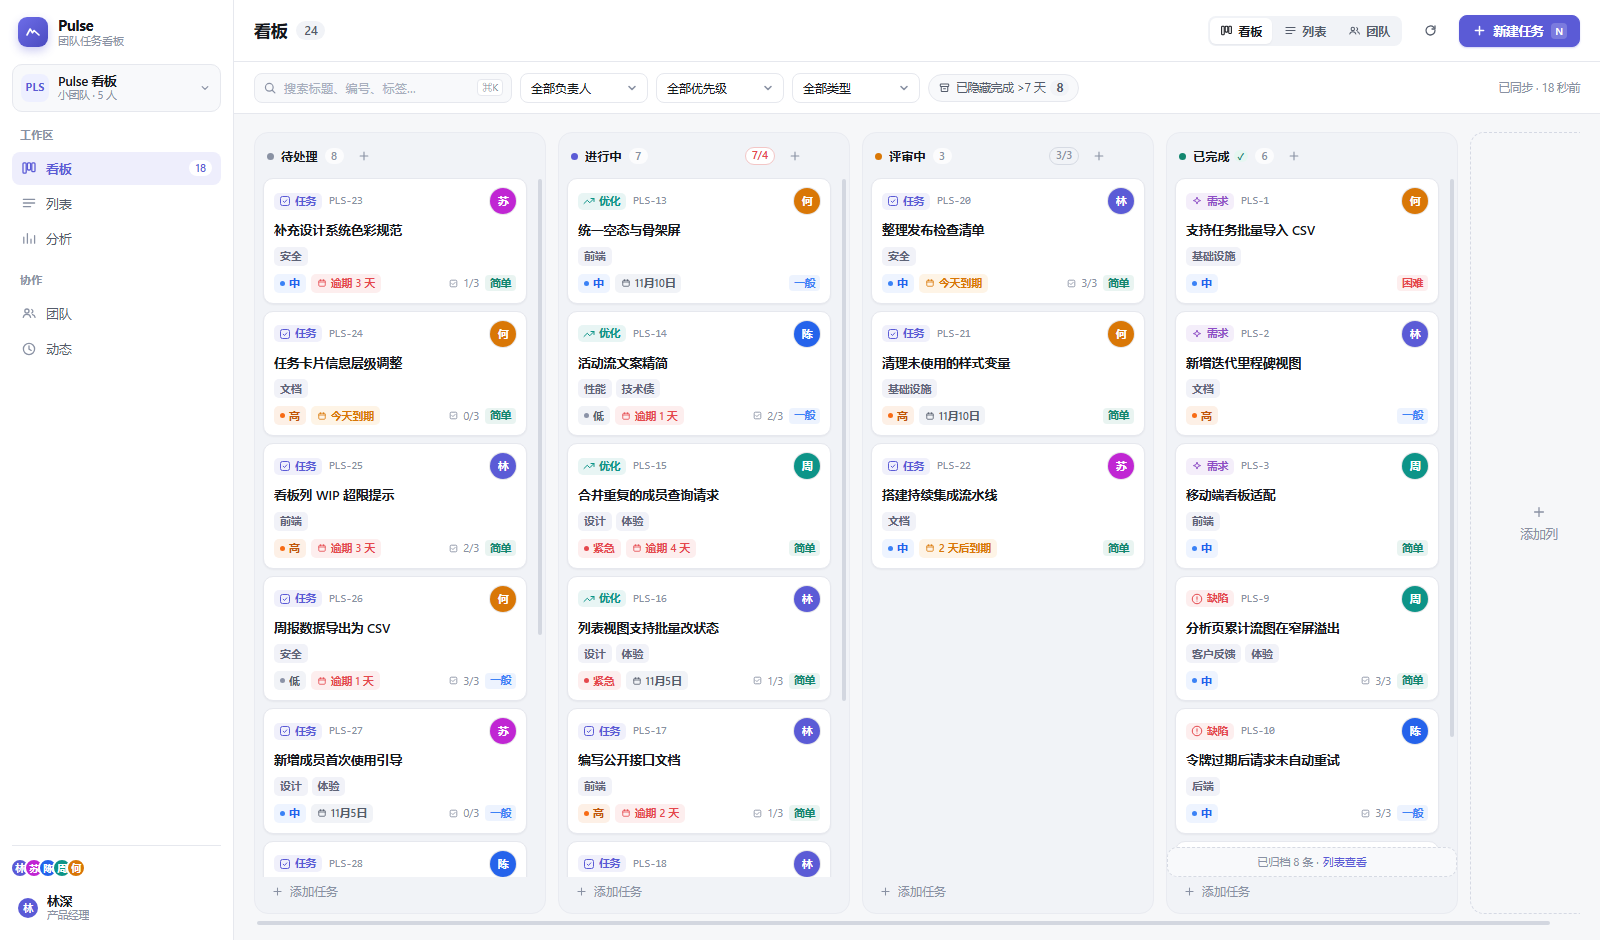
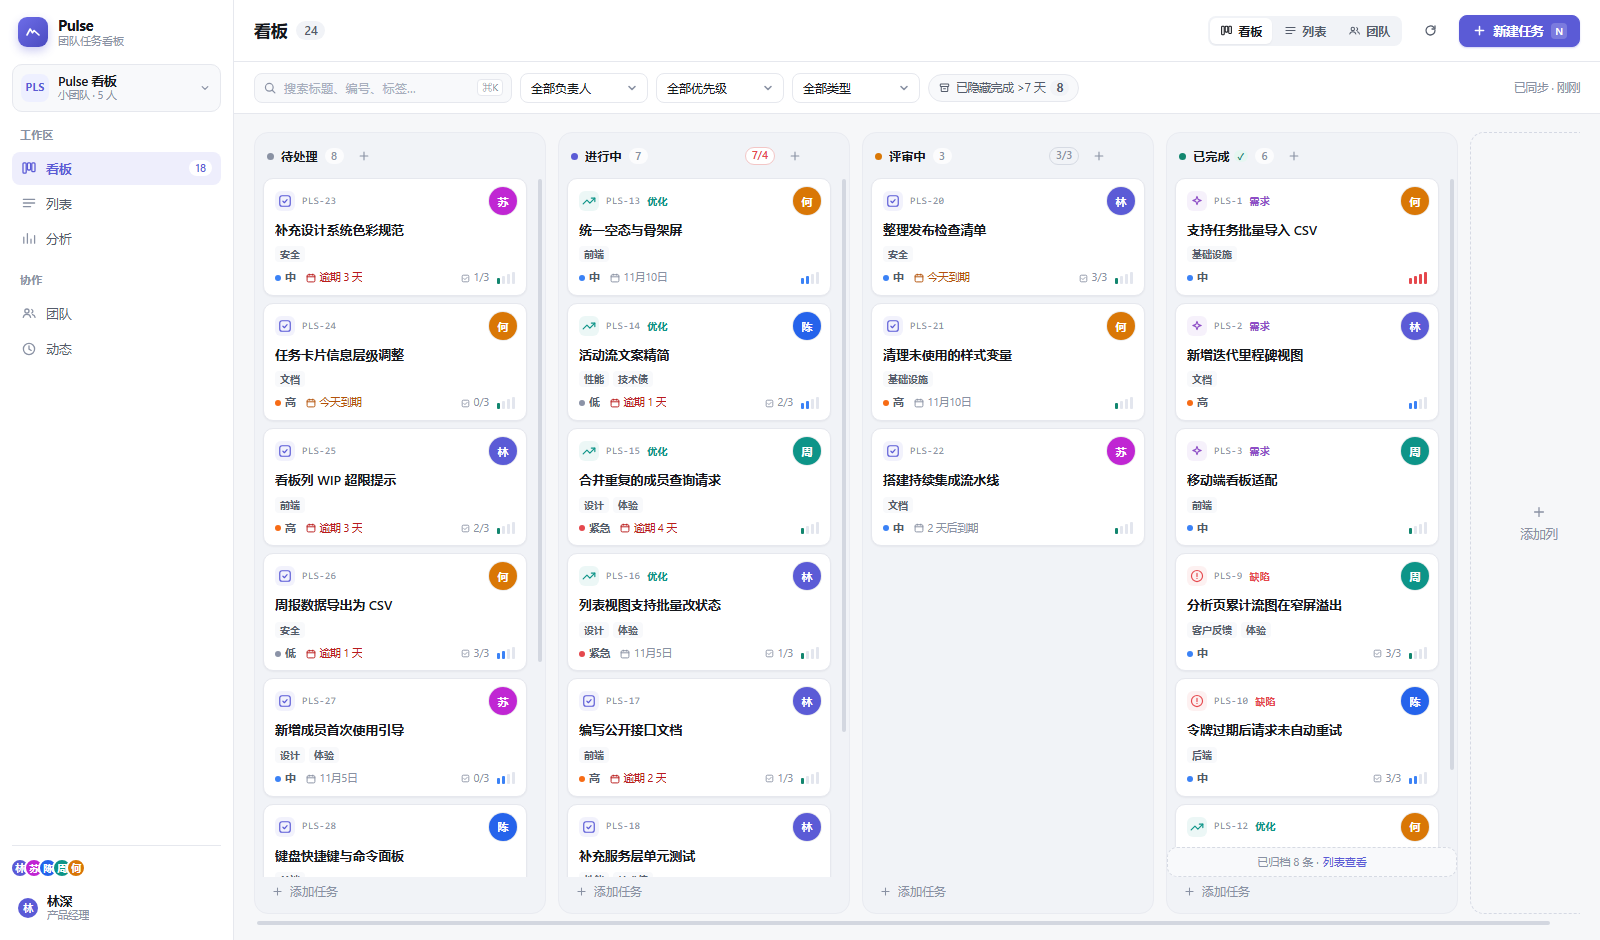
feat: 看板卡片信息层级重构（类型图标 + 大处理人 + 精简 meta） (v1.11.0)

diff --git a/public/js/views/board.js b/public/js/views/board.js
@@ -29,60 +29,89 @@ let draggedId = null;
 let menuEl = null;
 let menuCleanup = null;
 
+/** 难度刻度：4 格，比「较难 / 困难」文字更省空间，完整含义在 title 与抽屉里 */
+function difficultyMeter(task) {
+  if (!task.difficulty) return '';
+  const levels = ['easy', 'normal', 'hard', 'xhard'];
+  const level = levels.indexOf(task.difficulty) + 1;
+  const meta = difficultyMeta(task.difficulty);
+  const bars = [1, 2, 3, 4]
+    .map((i) => `<i class="${i <= level ? 'on' : ''}"></i>`)
+    .join('');
+  return `<span class="diff-meter" style="--diff-color:${meta.color}" title="难易程度：${escapeHtml(
+    meta.name,
+  )}" aria-label="难易程度：${escapeHtml(meta.name)}">${bars}</span>`;
+}
+
 function cardHtml(task) {
   const priority = priorityMeta(task.priority);
   const type = typeMeta(task.type);
   const member = memberById(task.assigneeId);
   const due = dueInfo(task.dueDate, isDoneStatus(task.status));
   const doneSubtasks = task.subtasks.filter((item) => item.done).length;
+  // 标签最多两个，其余折成 +N，避免卡片被标签撑爆
+  const visibleLabels = task.labels.slice(0, 2);
+  const restLabels = task.labels.length - visibleLabels.length;
+  const assigneeName = member ? `${member.name} · ${member.role}` : '未指派';
 
-  return `<article class="card" draggable="true" data-task-id="${task.id}">
-    <div class="card-top">
-      <span class="card-type" style="color:${type.color};background:${type.color}18" title="任务类型：${escapeHtml(
+  return `<article class="card" draggable="true" data-task-id="${task.id}" data-priority="${task.priority}">
+    <header class="card-head">
+      <span class="card-type-icon" style="color:${type.color};background:${type.color}14" title="任务类型：${escapeHtml(
         type.name,
-      )}">${icon(typeIconName(type.id), 12)}<span>${escapeHtml(type.name)}</span></span>
+      )}">${icon(typeIconName(type.id), 14)}</span>
       <span class="card-key">${escapeHtml(task.key)}</span>
+      ${
+        type.id === 'task'
+          ? ''
+          : `<span class="card-type-name" style="color:${type.color}">${escapeHtml(type.name)}</span>`
+      }
       <button class="card-avatar" data-assignee-btn="${task.id}" title="切换执行人：${escapeHtml(
-        member ? `${member.name} · ${member.role}` : '未指派',
-      )}" aria-label="切换执行人">${avatarHtml(member)}</button>
-    </div>
+        assigneeName,
+      )}" aria-label="切换执行人：${escapeHtml(assigneeName)}">
+        ${
+          member
+            ? avatarHtml(member, 'avatar-card')
+            : `<span class="avatar-ghost" aria-hidden="true">${icon('plus', 12)}</span>`
+        }
+      </button>
+    </header>
+
     <div class="card-title">${escapeHtml(task.title)}</div>
+
     ${
-      task.labels.length
-        ? `<div class="card-labels">${task.labels
+      visibleLabels.length
+        ? `<div class="card-labels">${visibleLabels
             .map((label) => `<span class="chip chip-label">${escapeHtml(label)}</span>`)
-            .join('')}</div>`
+            .join('')}${
+            restLabels > 0 ? `<span class="chip chip-label chip-more">+${restLabels}</span>` : ''
+          }</div>`
         : ''
     }
-    <div class="card-meta">
-      <span class="chip chip-priority-${priority.id}"><i class="chip-dot" style="background:${
-        priority.color
-      }"></i>${escapeHtml(priority.name)}</span>
+
+    <footer class="card-foot">
+      <span class="prio prio-${priority.id}" title="优先级：${escapeHtml(priority.name)}">
+        <i style="background:${priority.color}"></i>${escapeHtml(priority.name)}
+      </span>
       ${
         due
-          ? `<span class="${due.cls}">${icon('calendar', 10)}${escapeHtml(due.text)}</span>`
+          ? `<span class="due ${due.overdue ? 'due-over' : due.soon ? 'due-soon' : ''}" title="截止日期">${icon(
+              'calendar',
+              12,
+            )}${escapeHtml(due.text)}</span>`
           : ''
       }
-      <span class="meta-right">
+      <span class="foot-right">
         ${
           task.subtasks.length
-            ? `<span class="sub-progress" title="子项完成度">${icon('subtask', 11)}${doneSubtasks}/${
-                task.subtasks.length
-              }</span>`
+            ? `<span class="sub-progress" title="子项完成度 ${doneSubtasks}/${task.subtasks.length}">${icon(
+                'subtask',
+                12,
+              )}${doneSubtasks}/${task.subtasks.length}</span>`
             : ''
         }
-        ${
-          task.difficulty
-            ? (() => {
-                const d = difficultyMeta(task.difficulty);
-                return `<span class="diff-badge" style="color:${d.color};background:${d.color}18" title="难易程度：${escapeHtml(
-                  d.name,
-                )}">${escapeHtml(d.name)}</span>`;
-              })()
-            : ''
-        }
+        ${difficultyMeter(task)}
       </span>
-    </div>
+    </footer>
   </article>`;
 }
 

diff --git a/public/css/style.css b/public/css/style.css
@@ -3510,3 +3510,187 @@ select {
 .an-kpi-info:hover::before,
 .an-kpi-info:focus-visible::before { opacity: 1; }
 .an-kpi-note { margin-left: 5px; font-size: 10px; color: var(--text-3); }
+
+/* ============================================================
+   任务卡片（v1.11 信息分层：类型图标 / 大处理人 / 精简 meta）
+   ============================================================ */
+.card {
+  padding: 10px 11px 9px;
+  border-radius: 10px;
+}
+
+.card-head {
+  display: flex;
+  align-items: center;
+  gap: 7px;
+  margin-bottom: 7px;
+}
+
+/* 类型：14px 彩色图标 + 同色淡底块，替代原来的小字胶囊 */
+.card-type-icon {
+  width: 20px;
+  height: 20px;
+  border-radius: 6px;
+  display: grid;
+  place-items: center;
+  flex: 0 0 auto;
+}
+
+.card-type-icon svg {
+  width: 14px;
+  height: 14px;
+}
+
+.card-key {
+  font-family: var(--mono);
+  font-size: 10px;
+  letter-spacing: 0.02em;
+  color: var(--text-3);
+}
+
+/* 处理人：28px，未指派为虚线圈 */
+.card-avatar {
+  margin-left: auto;
+  padding: 0;
+  border: 0;
+  background: none;
+  border-radius: 50%;
+  display: inline-flex;
+  cursor: pointer;
+}
+
+.card-avatar .avatar,
+.avatar.avatar-card {
+  width: 28px;
+  height: 28px;
+  font-size: 11px;
+  box-shadow: 0 0 0 1px rgba(17, 24, 39, 0.08);
+}
+
+.card-avatar:hover .avatar {
+  box-shadow: 0 0 0 3px var(--accent-soft);
+}
+
+.card-title {
+  font-size: 12.9px;
+  font-weight: 560;
+  line-height: 1.5;
+  -webkit-line-clamp: 2;
+}
+
+.card-labels {
+  margin-top: 7px;
+  gap: 4px;
+}
+
+.chip-label {
+  height: 16px;
+  padding: 0 5px;
+  border-radius: 4px;
+  font-size: 10px;
+  line-height: 16px;
+  background: var(--surface-2);
+  color: var(--text-2);
+}
+
+.chip-more {
+  color: var(--text-3);
+}
+
+.card-foot {
+  display: flex;
+  align-items: center;
+  gap: 9px;
+  margin-top: 8px;
+  font-size: 10.5px;
+  color: var(--text-3);
+  min-width: 0;
+}
+
+.card-foot .prio {
+  display: inline-flex;
+  align-items: center;
+  gap: 4px;
+  font-weight: 560;
+  color: var(--text-2);
+}
+
+.card-foot .prio i {
+  width: 6px;
+  height: 6px;
+  border-radius: 50%;
+  flex: 0 0 auto;
+}
+
+.card-foot .due {
+  display: inline-flex;
+  align-items: center;
+  gap: 3px;
+  white-space: nowrap;
+  overflow: hidden;
+  text-overflow: ellipsis;
+}
+
+.card-foot .due-over {
+  color: #b91c1c;
+}
+
+.card-foot .due-soon {
+  color: #b45309;
+}
+
+.card-foot .foot-right {
+  margin-left: auto;
+  display: inline-flex;
+  align-items: center;
+  gap: 8px;
+  flex: 0 0 auto;
+}
+
+.card-foot .sub-progress {
+  display: inline-flex;
+  align-items: center;
+  gap: 3px;
+  font-size: 10.5px;
+  color: var(--text-3);
+}
+
+/* 难度：4 格刻度 */
+.diff-meter {
+  display: inline-flex;
+  align-items: flex-end;
+  gap: 2px;
+  padding-bottom: 1px;
+}
+
+.diff-meter i {
+  display: block;
+  width: 3px;
+  height: 6px;
+  border-radius: 1px;
+  background: #e3e6ee;
+}
+
+.diff-meter i:nth-child(2) { height: 8px; }
+.diff-meter i:nth-child(3) { height: 10px; }
+.diff-meter i:nth-child(4) { height: 12px; }
+.diff-meter i.on { background: var(--diff-color, #5b5bd6); }
+
+.avatar-ghost {
+  width: 28px;
+  height: 28px;
+  border-radius: 50%;
+  border: 1px dashed var(--border-strong);
+  background: var(--surface-2);
+  color: var(--text-3);
+  display: grid;
+  place-items: center;
+}
+
+/* 非默认类型（需求/缺陷/优化）在编号后补一个类型名，默认「任务」不显示 */
+.card-type-name {
+  font-size: 10px;
+  font-weight: 620;
+  letter-spacing: 0.02em;
+  white-space: nowrap;
+}

diff --git a/server/config.js b/server/config.js
@@ -68,7 +68,7 @@ const seedMode = (process.env.SEED_MODE || (env === 'production' ? 'empty' : 'de
 const config = {
   env,
   isProd: env === 'production',
-  version: '1.10.0',
+  version: '1.11.0',
   host: process.env.HOST || '127.0.0.1',
   port: readInt('PORT', 4173, { min: 1, max: 65535 }),
   dataDir: path.resolve(ROOT, process.env.DATA_DIR || 'data'),

diff --git a/docs/DEPLOYMENT.md b/docs/DEPLOYMENT.md
@@ -1,6 +1,6 @@
 # Pulse 看板 · 部署与运维手册
 
-> 适用版本：v1.10.0 ｜ 更新日期：2026-10-30
+> 适用版本：v1.11.0 ｜ 更新日期：2026-10-30
 >
 > Pulse 看板是一个面向小团队（5~20 人）的任务跟踪与效能分析系统，对标 JIRA / Plane 的核心能力：看板拖拽、任务键、类型/优先级/难易程度、成员负载、累计流图与吞吐分析、**看板列自定义**。**零 npm 依赖**（SQLite 使用 Node 内置 `node:sqlite`），单进程 Node.js 即可运行，非常适合内网服务器、云主机或 NAS 部署。
 
@@ -265,7 +265,7 @@ docker compose down && docker compose up -d --build
 # 升级（裸机）
 systemctl stop kanban-pulse
 cp -r data /tmp/kanban-data-backup        # 数据先备份
-tar -xzf kanban-pulse-1.10.0.tar.gz -C /opt/kanban-pulse --strip-components=1
+tar -xzf kanban-pulse-1.11.0.tar.gz -C /opt/kanban-pulse --strip-components=1
 systemctl start kanban-pulse
 
 # 回滚：换回旧版本包重新解压启动即可；数据库 schema 通过版本化迁移管理，向前兼容
@@ -276,7 +276,7 @@ systemctl start kanban-pulse
 **关于 schema 迁移**：启动时自动执行，日志会打印 `数据库迁移已应用`（含 version 与 name）：
 
 - version=2：新增 `tasks.started_at`，从任务历史回填「首次进入开始列」的时间
-- version=3（v1.10.0）：新增 `tasks.difficulty`，把旧的数字 `estimate` 折算为难度档位
+- version=3（v1.11.0）：新增 `tasks.difficulty`，把旧的数字 `estimate` 折算为难度档位
   （≤2 简单 / ≤4 一般 / ≤6 较难 / >6 困难）；`estimate` 列保留但不再使用
 
 回填不修改原有数据，可安全重复执行。

diff --git a/docs/USER-GUIDE.md b/docs/USER-GUIDE.md
@@ -14,7 +14,10 @@
 - **拖拽卡片**跨列流转、列内上下拖动排序；拖拽失败会自动弹回原位
 - 配置了 **WIP 上限** 的列，列头计数变红即超载，提示先收尾再领新任务
 - 每列底部「+ 添加任务」快速创建，回车提交、Esc 取消
-- 卡片信息：类型胶囊（图标 + 任务/需求/缺陷/优化）、任务键（PLS-12）、标题、标签、优先级、截止日期（临期橙色 / 逾期红色）、子项完成度、**难度标签**（简单 / 一般 / 较难 / 困难）、负责人头像（26px，点击可切换执行人）
+- 卡片信息（自上而下三层）：
+  - **头部**：类型图标（彩色，非「任务」类型会带类型名）、任务键（PLS-12）、负责人头像（28px，点击换人；未指派为虚线圈）
+  - **主体**：标题（最多 2 行）、标签（最多 2 个，其余显示 +N）
+  - **尾部**：优先级（色点 + 文字）、截止（逾期红 / 临期橙，没有截止就不显示）、子项完成度、难度 4 格刻度（悬停看具体档位）
 
 **默认查询条件：隐藏 7 天前完成的任务**
 
